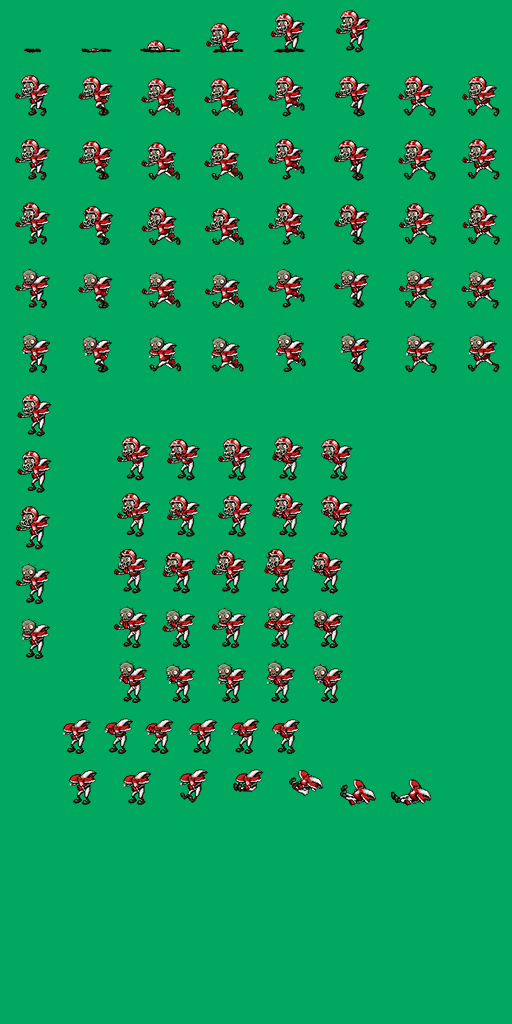
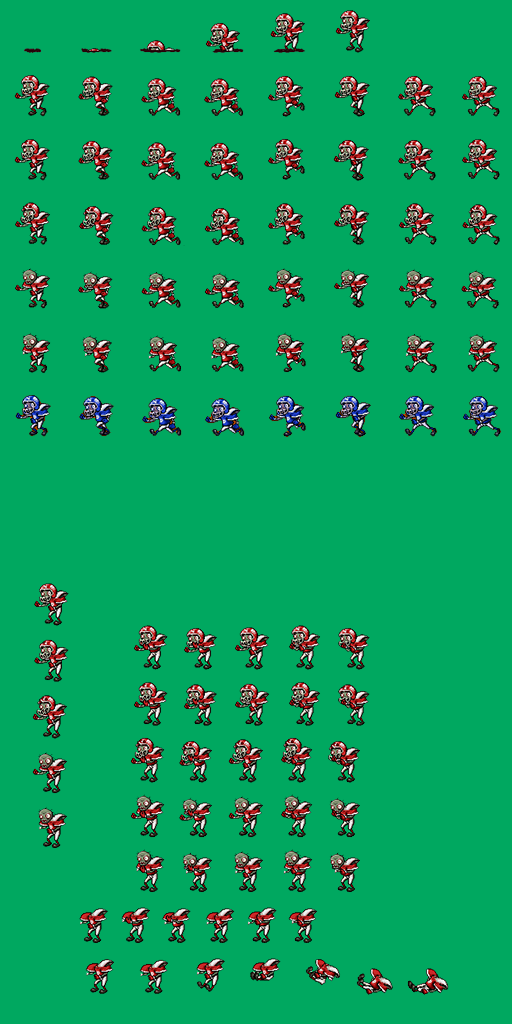
powerup

diff --git a/FSMs/animation.py b/FSMs/animation.py
@@ -1,12 +1,13 @@
 from . import AbstractGameFSM
 from utils import magnitude, EPSILON, SpriteManager
-
+from pygame import transform
 from statemachine import State
 
 class AnimateFSM(AbstractGameFSM):
     """For anything that animates. Adds behavior on
        transitioning into a state to change animation."""
     def on_enter_state(self):
+        
         state = self.current_state.id
         if self.obj.row != self.obj.rowList[state]:
             self.obj.nFrames = self.obj.nFramesList[state]
@@ -16,7 +17,6 @@ class AnimateFSM(AbstractGameFSM):
             self.obj.animationTimer = 0
             self.obj.image = SpriteManager.getInstance().getSprite(self.obj.imageName,
                                                                    (self.obj.frame, self.obj.row))
-         
         
 class WalkingFSM(AnimateFSM):
     """Two-state FSM for walking / stopping in
@@ -28,6 +28,7 @@ class WalkingFSM(AnimateFSM):
     damage2= State()
     damage3= State()
     damage4= State()
+    powered= State()
     # dead= State()
 
     move = standing.to(moving)  | damage1.to(moving)  | damage1.to(moving)  | damage1.to(moving)  | damage1.to(moving)  
@@ -36,18 +37,22 @@ class WalkingFSM(AnimateFSM):
     hurt2 = damage1.to(damage2)
     hurt3 = damage2.to(damage3)
     hurt4 = damage3.to(damage4)
+    power = moving.to(powered)  | damage1.to(powered)  | damage2.to(powered)  | damage3.to(powered)  | damage4.to(powered) 
     # die = damage4.to(dead)
         
     
     def updateState(self):
-        if self.obj.hp == 8 and self == "moving":
-            self.hurt1()
-        if self.obj.hp == 6 and self == "damage1":
-                self.hurt2()
-        if self.obj.hp == 4 and self == "damage2":
-                self.hurt3()
-        if self.obj.hp == 2 and self == "damage3":
-                self.hurt4()
+        if self.obj.pow==True and self != "standing" and self != "powered":
+            self.power()
+        else:
+            if self.obj.hp == 8 and self == "moving":
+                self.hurt1()
+            if self.obj.hp == 6 and self == "damage1":
+                    self.hurt2()
+            if self.obj.hp == 4 and self == "damage2":
+                    self.hurt3()
+            if self.obj.hp == 2 and self == "damage3":
+                    self.hurt4()
         if self.hasVelocity() and self == "standing":
             self.move()
         # elif not self.hasVelocity() and self != "standing":

diff --git a/gameObjects/zombie.py b/gameObjects/zombie.py
@@ -28,7 +28,8 @@ class Zombie(Mobile):
          "damage2"   : 8,
          "damage3"   : 8,
          "damage4"   : 8,
-         "standing" : 6
+         "standing" : 6,
+          "powered"   : 8
       }
       
       self.rowList = {
@@ -37,7 +38,8 @@ class Zombie(Mobile):
          "damage2"   : 3,
          "damage3"   : 4,
          "damage4"   : 5,
-         "standing" : 0
+         "standing" : 0,
+         "powered"   : 6
       }
       
       self.framesPerSecondList = {
@@ -46,11 +48,14 @@ class Zombie(Mobile):
          "damage2"   : 8,
          "damage3"   : 8,
          "damage4"   : 8,
+         "powered"   : 8,
          "standing" : 8
       }
             
             
       self.hp = 10
+      self.attack=5
+      self.pow = False
       # self.hitBox = rectAdd(self.position, self.getRect())
       self.FSManimated = animation.WalkingFSM(self)
       self.LR = movement.AccelerationFSM(self, axis=0)
@@ -58,36 +63,16 @@ class Zombie(Mobile):
       self.spawn = True
       self.dead =  True
       
+      
    def getRect(self):
         return self.image.get_rect()
       
-   # def handleEvent(self, event):
-   #    if event.type == KEYDOWN:
-   #       if event.key == K_UP:
-   #          self.UD.decrease()
-             
-   #       elif event.key == K_DOWN:
-   #          self.UD.increase()
-            
-   #       elif event.key == K_LEFT:
-   #          self.LR.decrease()
-            
-   #       elif event.key == K_RIGHT:
-   #          self.LR.increase()
-            
-   #    elif event.type == KEYUP:
-   #       if event.key == K_UP:
-   #          self.UD.stop_decrease()
-             
-   #       elif event.key == K_DOWN:
-   #          self.UD.stop_increase()
-             
-            
-   #       elif event.key == K_LEFT:
-   #          self.LR.stop_decrease()
-            
-   #       elif event.key == K_RIGHT:
-   #          self.LR.stop_increase()
+   def handleEvent(self, event):
+      if event.type == KEYDOWN:
+         if event.key == K_UP:
+            self.pow=True
+            self.hp=10
+            self.attack=10
    
    def update(self, seconds): 
       # print(self.frame)
@@ -99,6 +84,7 @@ class Zombie(Mobile):
       self.UD.update(seconds)
       self.hitBox = rectAdd(self.position, self.getRect())
       super().update(seconds)
+
 
    # def updateMovement(self):
    #    pressed = pygame.key.get_pressed()

diff --git a/FSMs/movement.py b/FSMs/movement.py
@@ -29,6 +29,7 @@ class MovementFSM(AbstractGameFSM):
 
 
 class AccelerationFSM(MovementFSM):
+    mul = 1
     """Axis-based acceleration with gradual stopping."""
     not_moving = State(initial=True)
     
@@ -57,18 +58,22 @@ class AccelerationFSM(MovementFSM):
         super().__init__(obj)
 
     def update(self, seconds=0):
+        if self.obj.pow ==True:
+            AccelerationFSM.mul = 2
+        else:
+            AccelerationFSM.mul = 1
         if self == "positive":
-            self.obj.velocity = self.direction * self.accel * seconds
+            self.obj.velocity = self.direction * self.accel * seconds * AccelerationFSM.mul
         elif self == "negative":
-            self.obj.velocity = -self.direction * self.accel * seconds
+            self.obj.velocity = -self.direction * self.accel * seconds * AccelerationFSM.mul
                 
         elif self == "stalemate":
             pass
         else:
-            if self.obj.velocity[self.axis] > self.accel * seconds:
-                self.obj.velocity[self.axis] -= self.accel * seconds
-            elif self.obj.velocity[self.axis] < -self.accel * seconds:
-                self.obj.velocity[self.axis] += self.accel * seconds
+            if self.obj.velocity[self.axis] > self.accel * seconds * AccelerationFSM.mul:
+                self.obj.velocity[self.axis] -= self.accel * seconds * AccelerationFSM.mul
+            elif self.obj.velocity[self.axis] < -self.accel * seconds * AccelerationFSM.mul:
+                self.obj.velocity[self.axis] += self.accel * seconds * AccelerationFSM.mul
             else:
                 self.obj.velocity[self.axis] = 0
         

diff --git a/gameObjects/engine.py b/gameObjects/engine.py
@@ -73,6 +73,7 @@ class GameEngine(object):
     def handleEvent(self, event):
               
         # self.zombie.handleEvent(event)
+        [o.handleEvent(event) for o in self.zombies]
         if event.type == pygame.KEYDOWN :
             if event.key == pygame.K_1:
                 self.zom = True
@@ -117,7 +118,7 @@ class GameEngine(object):
             orb.update(seconds)
             if orb.position[0]>800:
                 self.orbs.remove(orb)
-                print(len(self.orbs))
+
                 
         for j in range(len(self.zombies)):
             for r in range(len(self.orbs)):
@@ -145,8 +146,7 @@ class GameEngine(object):
             for r in range(len(self.plants)):
                 if self.plants[r].hitBox.colliderect(self.zombies[j].hitBox):
                     # self.plants.pop(r) 
-                    self.plants[r].hp -= 1
-                    print( self.plants[r].hp)
+                    self.plants[r].hp -= self.zombies[j].attack
                     break
 
         # Drawable.updateOffset(self.zombie, self.size)

diff --git a/gameObjects/plant.py b/gameObjects/plant.py
@@ -17,7 +17,7 @@ import numpy as np
 class Plant(Drawable):
    def __init__(self, position):
       super().__init__(position, "plany.png")
-      self.hp=100
+      self.hp=500
       #Descaling
       scale_factor = 0.3
       original_image = self.image.copy()  # Create a copy of the original image
